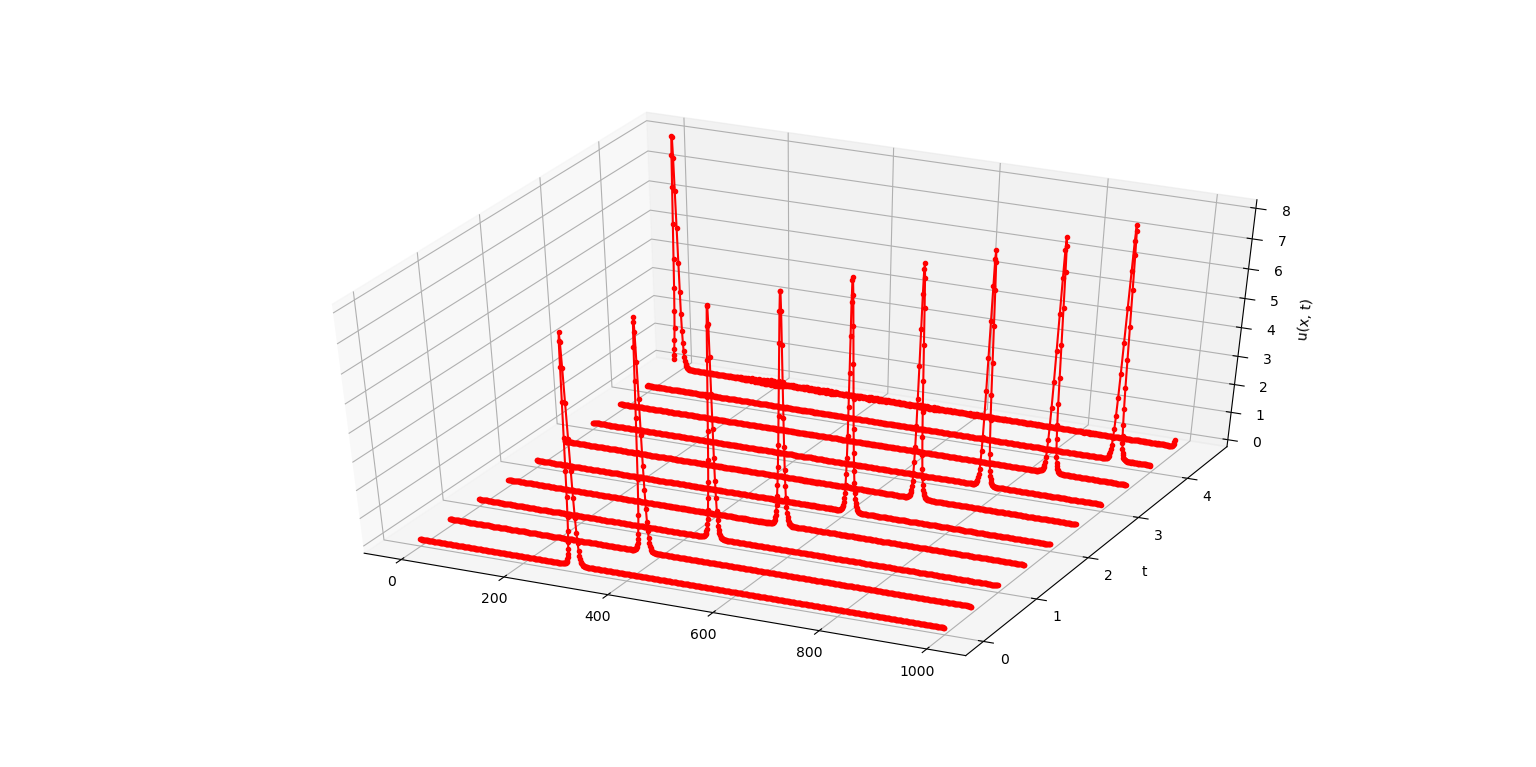
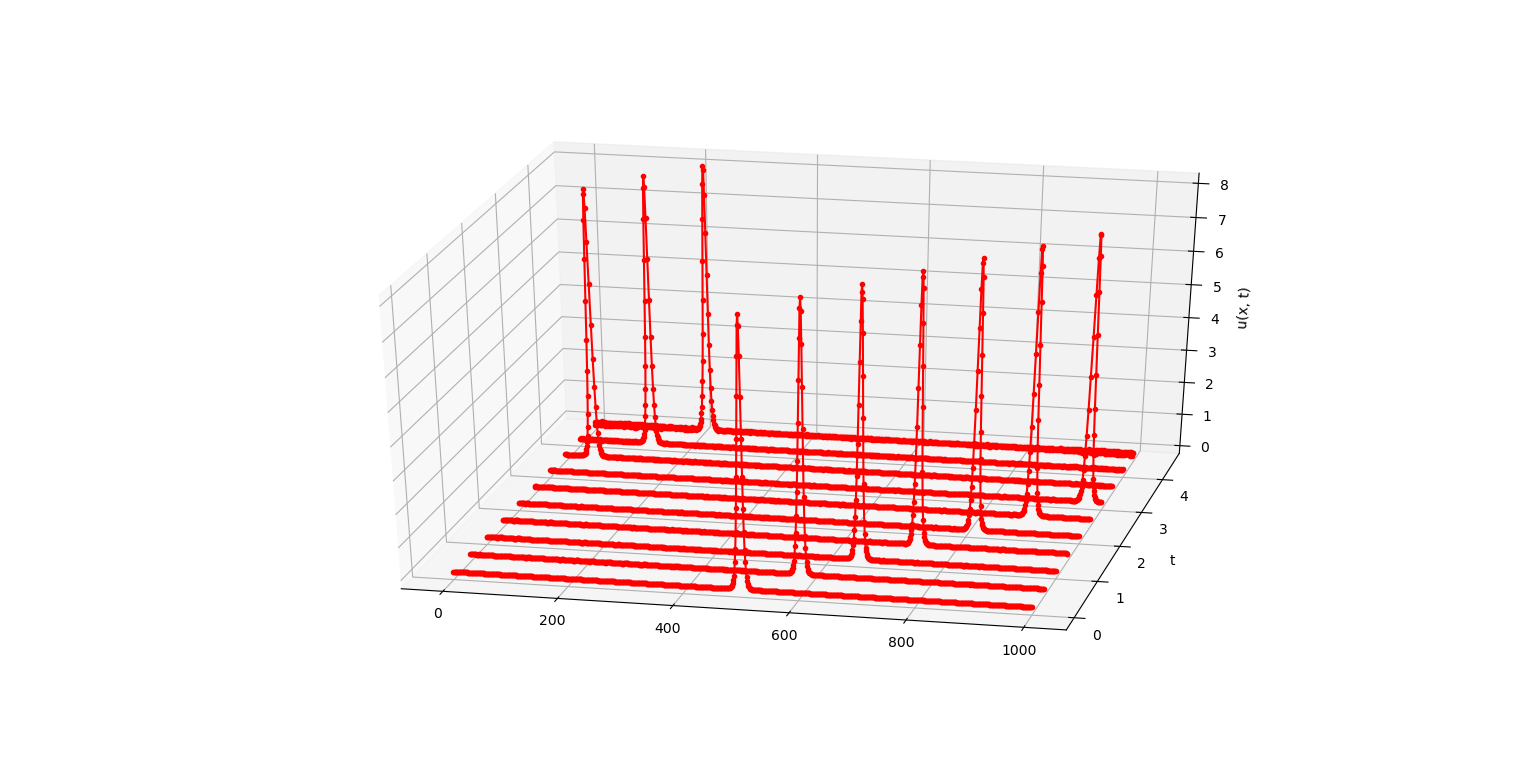
Убрано лишнее

Changed region(s): [[0.25, 0.1499, 0.8125, 0.8696], [0.5, 0.1799, 0.6875, 0.2699], [0.8125, 0.2699, 0.8438, 0.2999]]

diff --git a/example6/main.cpp b/example6/main.cpp
@@ -68,7 +68,6 @@ int rk4(int rank, int start_n, int end_n, int n, double t, double *x, double h, 
         if (rank == 0) {
             MPI_Status status;
             MPI_Recv(&(x[end_n]), n-end_n, MPI_DOUBLE, 1, 0, MPI_COMM_WORLD, &status);
-            // MPI_Send(&(x[0]), end_n, MPI_DOUBLE, 1, 1, MPI_COMM_WORLD);
             MPI_Send(&(x[end_n-2]), 2, MPI_DOUBLE, 1, 1, MPI_COMM_WORLD);            
             MPI_Send(&(x[0]), 2, MPI_DOUBLE, 1, 2, MPI_COMM_WORLD);
             printfArray(x, n, t);
@@ -76,10 +75,8 @@ int rk4(int rank, int start_n, int end_n, int n, double t, double *x, double h, 
         if (rank == 1) {
             MPI_Status status, status2;
             MPI_Send(&(x[start_n]), n-start_n, MPI_DOUBLE, 0, 0, MPI_COMM_WORLD);
-            // MPI_Recv(&(x[0]), start_n, MPI_DOUBLE, 0, 1, MPI_COMM_WORLD, &status);
             MPI_Recv(&(x[start_n-2]), 2, MPI_DOUBLE, 0, 1, MPI_COMM_WORLD, &status);
             MPI_Recv(&(x[0]), 2, MPI_DOUBLE, 0, 2, MPI_COMM_WORLD, &status2);
-            printfArray(x, n, t);
         }
 
         int edge_n[4] = {n-1, n-2, end_n, end_n+1};
@@ -134,11 +131,12 @@ int rk4(int rank, int start_n, int end_n, int n, double t, double *x, double h, 
 
 int main(int argc, char * argv[]) { 
     system("chcp 65001"); // utf-8
+
     // ввод параметров    
-    double from = atof(argv[1]), to = atof(argv[2]); // t (time) => 0 and 5.0
-    double h = atof(argv[3]); // step t (time) => 0.0001
+    double from = atof(argv[1]), to = atof(argv[2]); // 0 and 5.0 - t (time)
+    double h = atof(argv[3]); // 0.0001 - step t (time)
     double k = atof(argv[4]); // 2
-    double x0 = atof(argv[5]); // 30
+    double x0 = atof(argv[5]); // 50
 
     int rank = 0,  size = 2;    
     MPI_Init(&argc,&argv);
@@ -146,9 +144,6 @@ int main(int argc, char * argv[]) {
 
     if (rank == 0) {  
         freopen("output.txt", "w", stdout);
-    }
-    if (rank == 1) {
-        freopen("output_2.txt", "w", stdout);
     }
 
     int n = 100*N; // amount x
@@ -165,8 +160,6 @@ int main(int argc, char * argv[]) {
         end_n = n;
         break;
     default:
-        freopen("CON", "w", stdout);
-        printf("\nРассчитано на 2 процесса. Запущенный процесс %d закрыт.\n", rank);
         MPI_Finalize();
         return 0;
     }
@@ -186,6 +179,6 @@ int main(int argc, char * argv[]) {
 }
 
 // запуск 
-// параметры start_time=0, end_time=10.0 step_time=h=0.001 k=0.5 x0=30
+// параметры start_time=0, end_time=5.0 step_time=h=0.0001 k=2 x0=50
 // наилучшие
-// mpiexec -n 2 Debug\main.exe 0. 5.0 0.0001 2 30 
+// mpiexec -n 2 Debug\main.exe 0. 5.0 0.0001 2 50 
